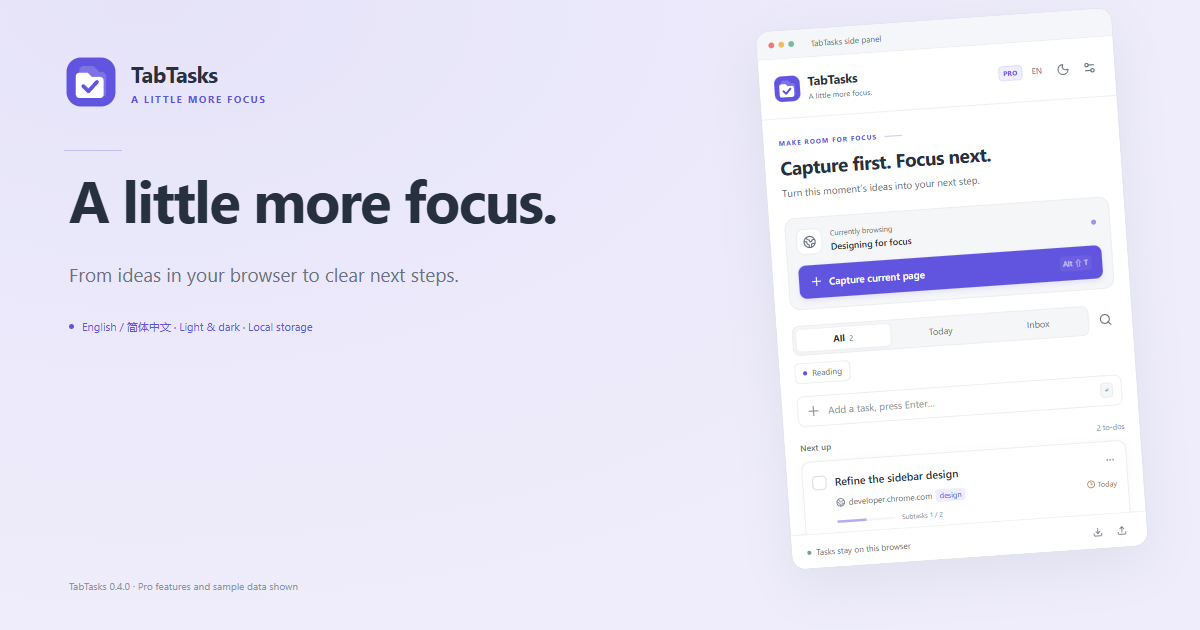
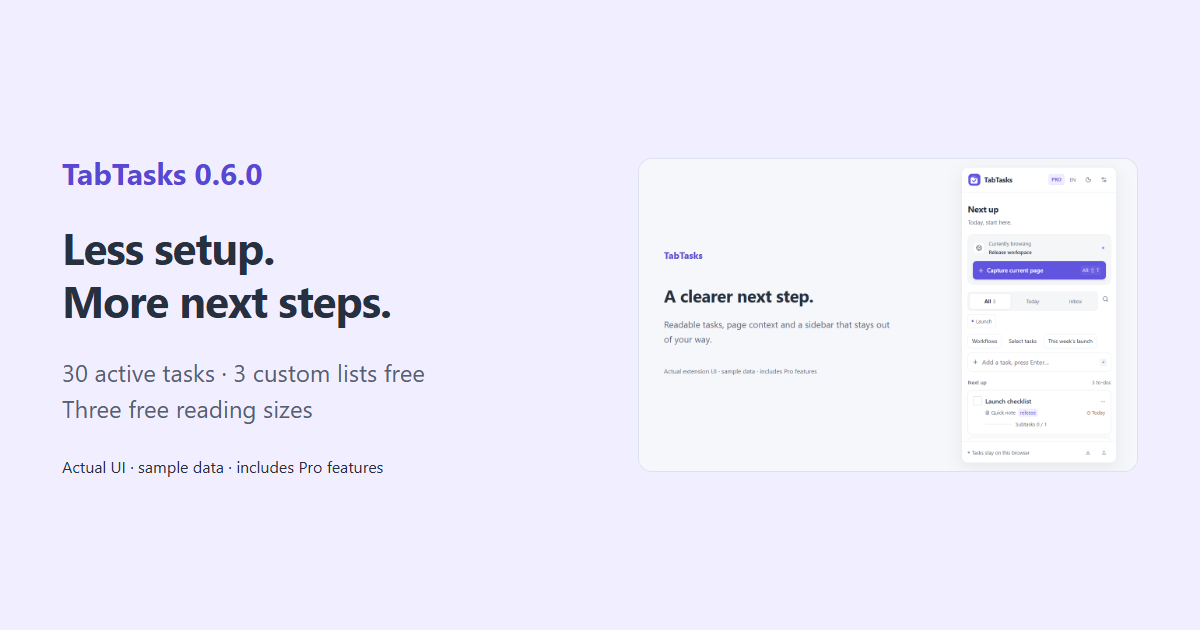
docs: align deployed product website with reading and workflow release

diff --git a/docs/index.html b/docs/index.html
@@ -1,6 +1,5 @@
 <!doctype html>
-<html lang="en"><head>
-<!-- Google tag (gtag.js) -->
+<html lang="en"><head><meta charset="utf-8"><meta name="viewport" content="width=device-width,initial-scale=1"><!-- Google tag (gtag.js) -->
 <script async src="https://www.googletagmanager.com/gtag/js?id=G-V2E93XDB2S"></script>
 <script>
   window.dataLayer = window.dataLayer || [];
@@ -8,11 +7,11 @@
   gtag('js', new Date());
   gtag('config', 'G-V2E93XDB2S', {allow_ad_personalization_signals: false});
 </script>
-<meta charset="utf-8"><meta name="viewport" content="width=device-width, initial-scale=1"><title>TabTasks — A little more focus.</title><meta name="description" content="From ideas in your browser to clear next steps. Capture a page, add context, and keep your next task close."><meta name="release-version" content="0.6.0"><link rel="icon" href="assets/icon-128.png"><link rel="canonical" href="https://tabtasks.tabplugins.top/"><meta property="og:type" content="website"><meta property="og:title" content="TabTasks — A little more focus."><meta property="og:description" content="From ideas in your browser to clear next steps. Capture a page, add context, and keep your next task close."><meta property="og:image" content="https://tabtasks.tabplugins.top/assets/social-1200x630.png"><meta property="og:image:width" content="1200"><meta property="og:image:height" content="630"><meta name="twitter:card" content="summary_large_image"><meta name="twitter:image" content="https://tabtasks.tabplugins.top/assets/social-1200x630.png"><link rel="stylesheet" href="landing.css"><script src="landing.js" defer></script></head>
-<body style="--accent:#6154df;--soft:#efedfb"><div class="page"><header><a class="brand" href="./"><img src="assets/logo.svg" width="42" height="42" alt=""><strong>TabTasks</strong></a><nav aria-label="Main"><a data-i18n="support" href="SUPPORT.html">Support</a><button id="language" type="button" aria-label="Switch to 简体中文">EN / 中</button></nav></header>
-<main><section class="hero"><div class="hero-copy"><span class="eyebrow" data-i18n="welcome">MADE FOR YOUR SIDEBAR</span><h1 data-i18n="headline">Less setup. More next steps.</h1><p class="lead" data-i18n="lead">From ideas in your browser to clear next steps. Capture a page, add context, and keep your next task close.</p><div class="actions"><a class="button primary" href="https://chromewebstore.google.com/detail/oloegbmgmcklmfgcmjngkjdfciblkmkp" data-i18n="install">Add to Chrome</a><a class="button secondary" href="https://pay-tabtasks.tabplugins.top/buy" data-i18n="buy">Get Pro</a></div><p class="quiet" data-i18n="footer">Chrome 116+ · Local storage · No account required</p></div><figure class="hero-image"><img data-shot="01" src="assets/en/shot-01.png" alt="TabTasks side panel with sample data" width="1280" height="800"><figcaption data-i18n="galleryNote">Actual interface with sample data and Pro features.</figcaption></figure></section>
-<section class="features"><h2 data-i18n="detail">Everything in its place.</h2><div class="feature-grid"><article><span class="number">01</span><h3 data-i18n="feature0">Capture the moment</h3><p data-i18n="body0">Save a webpage or selected text as a task, without leaving your browser.</p></article><article><span class="number">02</span><h3 data-i18n="feature1">Reuse your next steps</h3><p data-i18n="body1">Start with one reusable template and one saved smart view for free. Pro adds more flows, variables and views.</p></article><article><span class="number">03</span><h3 data-i18n="feature2">Review every suggestion</h3><p data-i18n="body2">Connect an OpenAI or Anthropic compatible service. Single-task AI is free; Pro adds multi-task planning. Review selected changes before applying. API calls are billed by your provider.</p></article></div></section>
-<section class="gallery"><div class="section-head"><h2 data-i18n="gallery">A calmer workspace.</h2><div class="quiet"><p data-i18n="language">Follows your browser. English fallback, with a manual language choice.</p><p data-i18n="theme">Light, dark, or follow your system.</p></div></div><div class="gallery-grid"><a class="shot-link" href="assets/en/shot-02.png" target="_blank" rel="noopener"><img data-shot="02" src="assets/en/shot-02.png" alt="TabTasks feature 2" width="1280" height="800" loading="lazy"></a><a class="shot-link" href="assets/en/shot-03.png" target="_blank" rel="noopener"><img data-shot="03" src="assets/en/shot-03.png" alt="TabTasks feature 3" width="1280" height="800" loading="lazy"></a><a class="shot-link" href="assets/en/shot-04.png" target="_blank" rel="noopener"><img data-shot="04" src="assets/en/shot-04.png" alt="TabTasks feature 4" width="1280" height="800" loading="lazy"></a><a class="shot-link" href="assets/en/shot-05.png" target="_blank" rel="noopener"><img data-shot="05" src="assets/en/shot-05.png" alt="TabTasks feature 5" width="1280" height="800" loading="lazy"></a></div></section>
-<section class="plans"><article><span class="eyebrow" data-i18n="free">Free</span><h2 data-i18n="free">Free</h2><ul id="free-features"><li>30 active tasks · 3 custom lists</li><li>Page capture, tags, notes, subtasks and dates</li><li>JSON backup and calendar export</li><li>1 reusable template · 1 saved smart view</li><li>Single-task AI with your API key</li></ul><a class="button secondary" href="https://chromewebstore.google.com/detail/oloegbmgmcklmfgcmjngkjdfciblkmkp" data-i18n="install">Add to Chrome</a></article><article class="pro-plan"><span class="eyebrow" data-i18n="once">One-time $6 license</span><h2 data-i18n="pro">Pro</h2><ul id="pro-features"><li>More active tasks and custom lists</li><li>Multiple flow templates and variables</li><li>Cross-list flows and batch starts</li><li>Saved smart views, grouping and pins</li><li>Multi-task AI plans and reusable instructions</li></ul><a class="button primary" href="https://pay-tabtasks.tabplugins.top/buy" data-i18n="buy">Get Pro</a></article></section>
-<section class="privacy"><span class="eyebrow">LOCAL FIRST</span><h2 data-i18n="privacyTitle">Your workspace stays local.</h2><p data-i18n="privacy">Tasks and preferences stay local. An explicit AI request sends your instruction and disclosed task snapshot directly to your selected service. No extension usage analytics.</p><a href="PRIVACY.html" data-i18n="policy">Privacy policy</a></section></main>
-<footer><span>TabTasks 0.5.1</span><div><a href="PRIVACY.html" data-i18n="policy">Privacy policy</a><a href="SUPPORT.html" data-i18n="support">Support</a><a href="https://tabvault.tabplugins.top/" data-i18n="related">Explore TabVault</a></div></footer></div></body></html>
+<title>TabTasks — Less setup. More next steps.</title><meta name="description" content="Capture a page, reuse a checklist, and keep the right tasks in view. Readable by default, with your next step close at hand."><meta name="release-version" content="0.6.0"><link rel="canonical" href="https://tabtasks.tabplugins.top/"><link rel="icon" href="assets/icon-128.png"><meta property="og:type" content="website"><meta property="og:title" content="TabTasks 0.6.0"><meta property="og:description" content="Capture a page, reuse a checklist, and keep the right tasks in view. Readable by default, with your next step close at hand."><meta property="og:image" content="https://tabtasks.tabplugins.top/assets/social-1200x630.png"><meta property="og:image:width" content="1200"><meta property="og:image:height" content="630"><meta name="twitter:card" content="summary_large_image"><meta name="twitter:image" content="https://tabtasks.tabplugins.top/assets/social-1200x630.png"><link rel="stylesheet" href="landing.css"><script src="landing.js" defer></script></head>
+<body style="--accent:#5847d2;--soft:#efedfb"><div class="page"><header><a class="brand" href="./"><img src="assets/logo.svg" width="42" height="42" alt=""><strong>TabTasks</strong></a><nav aria-label="Main"><a href="SUPPORT.html" data-i18n="support">Support</a><button id="language" type="button" aria-label="Switch to 简体中文">EN / 中</button></nav></header>
+<main><p class="release-note" data-i18n="releaseNote">This page presents TabTasks 0.6.0. Store review and update distribution may take longer; check your installed version.</p><section class="hero"><div class="hero-copy"><span class="eyebrow" data-i18n="welcome">MADE FOR YOUR SIDEBAR</span><h1 data-i18n="headline">Less setup. More next steps.</h1><p class="lead" data-i18n="lead">Capture a page, reuse a checklist, and keep the right tasks in view. Readable by default, with your next step close at hand.</p><div class="actions"><a class="button primary" href="https://chromewebstore.google.com/detail/oloegbmgmcklmfgcmjngkjdfciblkmkp" data-i18n="install">View in Chrome Web Store</a><a class="button secondary" href="https://pay-tabtasks.tabplugins.top/buy" data-i18n="buy">Get Pro</a></div><p class="quiet" data-i18n="footer">Chrome 116+ · Local storage · No account required</p></div><figure class="hero-image"><img data-shot="01" src="assets/en/shot-01.png" alt="TabTasks 0.6.0 side panel" width="1280" height="800"><figcaption data-i18n="galleryNote">Actual interface with sample data and Pro features.</figcaption></figure></section>
+<section class="features"><h2 data-i18n="detail">Everything in its place.</h2><div class="feature-grid"><article><span class="number">01</span><h3 data-i18n="feature0">Capture the moment</h3><p data-i18n="body0">Save a webpage or selected text with notes, tags, subtasks, due dates and supported page excerpts. All of these basics are free.</p></article><article><span class="number">02</span><h3 data-i18n="feature1">Reuse your next steps</h3><p data-i18n="body1">Reuse one dated flow template and save one smart view for free. Pro adds multiple templates, project-name variables, cross-list batches, grouping and pins.</p></article><article><span class="number">03</span><h3 data-i18n="feature2">Review every suggestion</h3><p data-i18n="body2">Bring an OpenAI Chat Completions or Anthropic Messages compatible API key. Single-task AI is free; Pro adds multi-task plans and reusable instructions. Preview and confirm changes.</p></article><article><span class="number">04</span><h3 data-i18n="feature3">Comfortable to read</h3><p data-i18n="body3">Compact, standard or large text is free. Follow your browser language with English fallback, or switch between English and Simplified Chinese.</p></article></div></section>
+<section class="gallery"><div class="section-head"><h2 data-i18n="gallery">A calmer workspace.</h2><div class="quiet"><p data-i18n="language">Follows your browser. English fallback, with a manual language choice.</p><p data-i18n="theme">Light, dark, or follow your system.</p></div></div><div class="gallery-grid"><figure class="gallery-item"><a class="shot-link" href="assets/en/shot-02.png" target="_blank" rel="noopener"><img data-shot="02" src="assets/en/shot-02.png" alt="Reusable flows · one template is free" width="1280" height="800" loading="lazy"></a><figcaption data-i18n="shot02">Reusable flows · one template is free</figcaption></figure><figure class="gallery-item"><a class="shot-link" href="assets/en/shot-03.png" target="_blank" rel="noopener"><img data-shot="03" src="assets/en/shot-03.png" alt="Smart views · Pro grouping and pins" width="1280" height="800" loading="lazy"></a><figcaption data-i18n="shot03">Smart views · Pro grouping and pins</figcaption></figure><figure class="gallery-item"><a class="shot-link" href="assets/en/shot-04.png" target="_blank" rel="noopener"><img data-shot="04" src="assets/en/shot-04.png" alt="AI previews · Pro multi-task planning" width="1280" height="800" loading="lazy"></a><figcaption data-i18n="shot04">AI previews · Pro multi-task planning</figcaption></figure><figure class="gallery-item"><a class="shot-link" href="assets/en/shot-05.png" target="_blank" rel="noopener"><img data-shot="05" src="assets/en/shot-05.png" alt="Three reading sizes · free for everyone" width="1280" height="800" loading="lazy"></a><figcaption data-i18n="shot05">Three reading sizes · free for everyone</figcaption></figure></div></section>
+<section class="plans"><article class="free-plan"><span class="eyebrow" data-i18n="free">Free</span><h2 data-i18n="free">Free</h2><ul id="free-features"><li>30 active tasks · 3 custom lists</li><li>Notes, tags, excerpts, subtasks and dates</li><li>JSON backup and calendar export</li><li>1 reusable flow template · 1 smart view</li><li>Single-task AI with your API key</li><li>Three text sizes, themes and last-change undo</li></ul><a class="button primary" href="https://chromewebstore.google.com/detail/oloegbmgmcklmfgcmjngkjdfciblkmkp" data-i18n="install">View in Chrome Web Store</a></article><article class="pro-plan"><span class="eyebrow" data-i18n="once">One-time $6 license</span><h2 data-i18n="pro">Pro</h2><p class="price" data-i18n="price">$6 · one-time purchase</p><ul id="pro-features"><li>No active-task or custom-list count limits</li><li>Multiple templates and project-name variables</li><li>Cross-list flows and batch starts</li><li>More smart views, grouping and pins</li><li>Multi-task AI planning and saved instructions</li></ul><a class="button secondary" href="https://pay-tabtasks.tabplugins.top/buy" data-i18n="buy">Get Pro</a></article></section><div class="plan-notes"><p data-i18n="limitNote">Completed tasks and built-in lists do not use the 30 / 3 allowance. Pro removes these product count limits; local storage and browser resources still apply.</p><p data-i18n="priceNote">Applicable tax is shown at checkout. Each product is purchased separately. Existing Pro licenses include this update.</p><p data-i18n="purchaseNote">Start in the extension for automatic activation after payment verification. Email recovery and existing license codes remain available.</p></div>
+<section class="faq"><h2 data-i18n="faqTitle">Before you start</h2><details><summary data-i18n="faqQ0">Is my content synced to a cloud?</summary><p data-i18n="faqA0">No. Content and reusable workflows stay in this browser. JSON backups are available on Free; export before changing devices or uninstalling. Credentials and Pro licenses are excluded. The extension has no usage analytics; website traffic analytics is separate.</p></details><details><summary data-i18n="faqQ1">Which AI services can I use, and who pays?</summary><p data-i18n="faqA1">Choose an OpenAI Chat Completions or Anthropic Messages compatible service, API address and model. Compatibility depends on the provider implementation. Use your own API key; API usage is billed by that provider and is not included in Pro. A consumer chat subscription does not necessarily include API access.</p></details><details><summary data-i18n="faqQ2">How does a Pro purchase work?</summary><p data-i18n="faqA2">Each product has an optional $6 one-time Pro purchase, with applicable tax shown at checkout. Purchases started in the extension support verified automatic activation. For another device, use purchase-email recovery or an existing license code.</p></details></section><section class="privacy"><span class="eyebrow">LOCAL FIRST</span><h2 data-i18n="privacyTitle">Your workspace stays local.</h2><p data-i18n="privacy">Tasks, templates and views stay local. AI sends only your instruction and selected task IDs, titles, dates, completion states and tags to your chosen service; URLs, notes and page excerpts are excluded. No extension usage analytics.</p><a href="PRIVACY.html" data-i18n="policy">Privacy policy</a></section></main>
+<footer><span data-i18n="versionLabel">Features shown: TabTasks 0.6.0</span><div><a href="PRIVACY.html" data-i18n="policy">Privacy policy</a><a href="SUPPORT.html" data-i18n="support">Support</a><a href="https://tabvault.tabplugins.top/" data-i18n="related">Explore TabVault</a></div></footer></div></body></html>

diff --git a/docs/landing.js b/docs/landing.js
@@ -1,1 +1,3 @@
-const words={"headline":["Less setup. More next steps.","少做重复整理，清楚走出下一步。"],"lead":["From ideas in your browser to clear next steps. Capture a page, add context, and keep your next task close.","从浏览器里的想法，到清楚的下一步。收集网页、补充背景，让下一件事留在手边。"],"install":["Add to Chrome","添加到 Chrome"],"buy":["Get Pro","购买 Pro"],"welcome":["MADE FOR YOUR SIDEBAR","为浏览器侧栏而设计"],"detail":["Everything in its place.","让每件事各有位置。"],"gallery":["A calmer workspace.","更安静的工作空间。"],"galleryNote":["Actual interface with sample data and Pro features.","实际界面，含示例数据与 Pro 功能。"],"free":["Free","免费版"],"pro":["Pro","Pro 专业版"],"once":["One-time $6 license","一次性 $6 买断"],"language":["Follows your browser. English fallback, with a manual language choice.","默认跟随浏览器语言，识别失败使用英文，也可手动选择。"],"theme":["Light, dark, or follow your system.","浅色、深色或跟随系统。"],"privacyTitle":["Your workspace stays local.","工作空间保存在本机。"],"privacy":["Tasks and preferences stay local. An explicit AI request sends your instruction and disclosed task snapshot directly to your selected service. No extension usage analytics.","任务与偏好保存在本机；主动使用 AI 时，指令及已披露任务快照直连所选服务。插件内不收集使用统计。"],"policy":["Privacy policy","隐私政策"],"support":["Support","支持"],"related":["Explore TabVault","看看 TabVault"],"footer":["Chrome 116+ · Local storage · No account required","Chrome 116+ · 本地存储 · 无需账号"],"feature0":["Capture the moment","收集当下"],"body0":["Save a webpage or selected text as a task, without leaving your browser.","把网页或选中的文字收成待办，继续眼前的浏览。"],"feature1":["Reuse your next steps","复用工作流程"],"body1":["Start with one reusable template and one saved smart view for free. Pro adds more flows, variables and views.","免费体验一个可复用模板和一个智能视图；Pro 提供更多流程、变量与视图。"],"feature2":["Review every suggestion","核对每个建议"],"body2":["Connect an OpenAI or Anthropic compatible service. Single-task AI is free; Pro adds multi-task planning. Review selected changes before applying. API calls are billed by your provider.","连接 OpenAI / Anthropic 兼容服务。单任务 AI 免费，Pro 提供多任务计划。逐项预览并确认应用，调用费用由服务商另行收取。"]},plans={"free":["30 active tasks · 3 custom lists|Page capture, tags, notes, subtasks and dates|JSON backup and calendar export|1 reusable template · 1 saved smart view|Single-task AI with your API key","30 个活动任务 · 3 个自定义列表|网页收集、标签、备注、子任务与日期|JSON 备份与日历导出|1 个流程模板 · 1 个智能视图|自带 API Key 的单任务 AI"],"pro":["More active tasks and custom lists|Multiple flow templates and variables|Cross-list flows and batch starts|Saved smart views, grouping and pins|Multi-task AI plans and reusable instructions","更多活动任务与自定义列表|多流程模板与变量|跨列表流程与批量启动|保存智能视图、分组与固定入口|多任务 AI 计划与常用指令"]};let lang=/^zh(?:-|$)/i.test(navigator.language||'')?'zh':'en';try{const saved=localStorage.getItem('tabtasks_site_language');if(['en','zh'].includes(saved))lang=saved}catch{}function render(){const index=lang==='zh'?1:0;document.documentElement.lang=lang==='zh'?'zh-CN':'en';for(const node of document.querySelectorAll('[data-i18n]'))node.textContent=words[node.dataset.i18n][index];for(const node of document.querySelectorAll('[data-shot]')){node.src='assets/'+lang+'/shot-'+node.dataset.shot+'.png';if(node.parentElement.classList.contains('shot-link'))node.parentElement.href=node.src}for(const key of ['free','pro']){const ul=document.getElementById(key+'-features');ul.replaceChildren(...plans[key][index].split('|').map(text=>{const li=document.createElement('li');li.textContent=text;return li}))}document.getElementById('language').setAttribute('aria-label',lang==='en'?'Switch to 简体中文':'Switch to English')}document.getElementById('language').addEventListener('click',()=>{lang=lang==='en'?'zh':'en';try{localStorage.setItem('tabtasks_site_language',lang)}catch{}render()});render();
+const words={"headline":["Less setup. More next steps.","少做重复整理，清楚走出下一步。"],"lead":["Capture a page, reuse a checklist, and keep the right tasks in view. Readable by default, with your next step close at hand.","收集网页、复用清单，让需要的任务自然汇集。默认清楚易读，让下一步留在手边。"],"install":["View in Chrome Web Store","前往 Chrome 商店"],"buy":["Get Pro","购买 Pro"],"welcome":["MADE FOR YOUR SIDEBAR","为浏览器侧栏而设计"],"detail":["Everything in its place.","让每件事各有位置。"],"gallery":["A calmer workspace.","更安静的工作空间。"],"galleryNote":["Actual interface with sample data and Pro features.","实际界面，含示例数据与 Pro 功能。"],"free":["Free","免费版"],"pro":["Pro","Pro 专业版"],"once":["One-time $6 license","一次性 $6 买断"],"language":["Follows your browser. English fallback, with a manual language choice.","默认跟随浏览器语言，识别失败使用英文，也可手动选择。"],"theme":["Light, dark, or follow your system.","浅色、深色或跟随系统。"],"privacyTitle":["Your workspace stays local.","工作空间保存在本机。"],"privacy":["Tasks, templates and views stay local. AI sends only your instruction and selected task IDs, titles, dates, completion states and tags to your chosen service; URLs, notes and page excerpts are excluded. No extension usage analytics.","任务、模板和视图保存在本机。AI 只将指令及所选任务的 ID、标题、日期、完成状态、标签发送至所选服务，不发送网址、备注或网页摘录。插件内不收集使用统计。"],"policy":["Privacy policy","隐私政策"],"support":["Support","支持"],"related":["Explore TabVault","看看 TabVault"],"footer":["Chrome 116+ · Local storage · No account required","Chrome 116+ · 本地存储 · 无需账号"],"feature0":["Capture the moment","收集当下"],"body0":["Save a webpage or selected text with notes, tags, subtasks, due dates and supported page excerpts. All of these basics are free.","把网页或选区收成任务，补充备注、标签、子任务、到期日及支持页面的短摘录，这些基础功能均免费。"],"feature1":["Reuse your next steps","复用工作流程"],"body1":["Reuse one dated flow template and save one smart view for free. Pro adds multiple templates, project-name variables, cross-list batches, grouping and pins.","免费反复使用一个带相对日期的流程模板，并保存一个智能视图；Pro 增加多模板、项目名称变量、跨列表批量启动、分组与置顶。"],"feature2":["Review every suggestion","核对每个建议"],"body2":["Bring an OpenAI Chat Completions or Anthropic Messages compatible API key. Single-task AI is free; Pro adds multi-task plans and reusable instructions. Preview and confirm changes.","自带 OpenAI Chat Completions 或 Anthropic Messages 兼容服务的 API Key。单任务 AI 免费，Pro 提供多任务计划和常用指令，修改先预览再确认。"],"releaseNote":["This page presents TabTasks 0.6.0. Store review and update distribution may take longer; check your installed version.","本页介绍 TabTasks 0.6.0。商店审核与更新分发可能存在时间差，请以实际安装版本为准。"],"versionLabel":["Features shown: TabTasks 0.6.0","本页功能版本：TabTasks 0.6.0"],"feature3":["Comfortable to read","用舒服的字号继续"],"body3":["Compact, standard or large text is free. Follow your browser language with English fallback, or switch between English and Simplified Chinese.","紧凑、标准、大字均免费。默认跟随浏览器语言，识别失败或未支持时使用英文，也可手动切换中英文。"],"price":["$6 · one-time purchase","$6 · 一次性买断"],"priceNote":["Applicable tax is shown at checkout. Each product is purchased separately. Existing Pro licenses include this update.","适用税费以结账页为准，两款产品分别购买。已有 Pro 授权包含本次更新。"],"purchaseNote":["Start in the extension for automatic activation after payment verification. Email recovery and existing license codes remain available.","从插件内发起购买，经服务核验付款后自动激活；也支持邮箱恢复和已有授权码。"],"faqTitle":["Before you start","开始前，了解这几件事"],"faqQ0":["Is my content synced to a cloud?","内容会同步到云端吗？"],"faqA0":["No. Content and reusable workflows stay in this browser. JSON backups are available on Free; export before changing devices or uninstalling. Credentials and Pro licenses are excluded. The extension has no usage analytics; website traffic analytics is separate.","不会。内容与可复用流程保存在本机浏览器。JSON 备份免费，换设备或卸载前请先导出；备份不含凭证和 Pro 授权。插件内不收集使用统计，官网访问统计另行披露。"],"faqQ2":["How does a Pro purchase work?","Pro 怎样购买和恢复？"],"faqA2":["Each product has an optional $6 one-time Pro purchase, with applicable tax shown at checkout. Purchases started in the extension support verified automatic activation. For another device, use purchase-email recovery or an existing license code.","每款 Pro 均为可选的 $6 一次性买断，税费以结账页为准。从插件发起购买后支持核验并自动激活；换设备可用购买邮箱恢复或已有授权码。"],"limitNote":["Completed tasks and built-in lists do not use the 30 / 3 allowance. Pro removes these product count limits; local storage and browser resources still apply.","已完成任务和内置列表不占 30／3 额度。Pro 解除这两项产品数量限制，实际使用仍受本机存储和浏览器资源约束。"],"faqQ1":["Which AI services can I use, and who pays?","可以连接哪些 AI，费用怎么算？"],"faqA1":["Choose an OpenAI Chat Completions or Anthropic Messages compatible service, API address and model. Compatibility depends on the provider implementation. Use your own API key; API usage is billed by that provider and is not included in Pro. A consumer chat subscription does not necessarily include API access.","可选择 OpenAI Chat Completions 或 Anthropic Messages 兼容服务，自定义地址、模型及 API Key。兼容性取决于服务商实现。调用费用由服务商另收，Pro 不包含 AI 额度；聊天产品订阅不等于 API 权限。"],"shot02":["Reusable flows · one template is free","可复用流程 · 免费提供一个模板"],"shot03":["Smart views · Pro grouping and pins","智能视图 · Pro 分组与置顶"],"shot04":["AI previews · Pro multi-task planning","AI 建议预览 · Pro 多任务计划"],"shot05":["Three reading sizes · free for everyone","三档阅读字号 · 所有用户免费"]},plans={"free":["30 active tasks · 3 custom lists|Notes, tags, excerpts, subtasks and dates|JSON backup and calendar export|1 reusable flow template · 1 smart view|Single-task AI with your API key|Three text sizes, themes and last-change undo","30 个活动任务 · 3 个自定义列表|备注、标签、短摘录、子任务与日期|JSON 备份与日历导出|1 个可复用流程模板 · 1 个智能视图|自带 Key 的单任务 AI|三档字号、主题与最近一次数据修改撤销"],"pro":["No active-task or custom-list count limits|Multiple templates and project-name variables|Cross-list flows and batch starts|More smart views, grouping and pins|Multi-task AI planning and saved instructions","解除活动任务与自定义列表数量限制|多个流程模板与项目名称变量|跨列表流程与批量启动|更多智能视图、分组与置顶|多任务 AI 计划与常用指令"]};let lang='en';try{lang=/^zh(?:-|$)/i.test(navigator.language||'')?'zh':'en'}catch{}try{const saved=localStorage.getItem('tabtasks_site_language');if(['en','zh'].includes(saved))lang=saved}catch{}
+function render(){const index=lang==='zh'?1:0;document.documentElement.lang=lang==='zh'?'zh-CN':'en';for(const node of document.querySelectorAll('[data-i18n]'))node.textContent=words[node.dataset.i18n][index];for(const node of document.querySelectorAll('[data-shot]')){node.src='assets/'+lang+'/shot-'+node.dataset.shot+'.png';node.alt=node.dataset.shot==='01'?'TabTasks 0.6.0 · '+words.galleryNote[index]:words['shot'+node.dataset.shot][index];if(node.parentElement.classList.contains('shot-link'))node.parentElement.href=node.src}for(const key of ['free','pro']){document.getElementById(key+'-features').replaceChildren(...plans[key][index].split('|').map(text=>{const li=document.createElement('li');li.textContent=text;return li}))}document.getElementById('language').setAttribute('aria-label',lang==='en'?'Switch to 简体中文':'Switch to English')}
+document.getElementById('language').addEventListener('click',()=>{lang=lang==='en'?'zh':'en';try{localStorage.setItem('tabtasks_site_language',lang)}catch{}render()});render();

diff --git a/docs/SUPPORT.html b/docs/SUPPORT.html
@@ -1,11 +1,11 @@
-<!doctype html><html lang="en"><head><meta charset="utf-8"><meta name="viewport" content="width=device-width,initial-scale=1"><title>TabTasks — Support 支持中心</title><style>body{font:15px/1.8 system-ui,"Segoe UI","Microsoft YaHei",sans-serif;max-width:760px;margin:40px auto;padding:0 22px;color:#26303e}h1{font-size:28px}h2{font-size:21px;margin-top:36px}h3{font-size:16px;margin:24px 0 6px}a{color:#6154df}.date,footer{color:#738094;font-size:13px}footer{margin-top:40px;border-top:1px solid #e1e7ef;padding-top:16px}</style></head><body><h1>TabTasks — Support 支持中心</h1><p class="date">Updated / 生效日期：2026-10-09</p><h2>English</h2><h3>Open and update</h3><p>Click the toolbar icon. Chrome 116+ is required. Update the existing extension without uninstalling, which deletes local content. Alt+Shift+T collects the active page.</p>
+<!doctype html><html lang="en"><head><meta charset="utf-8"><meta name="viewport" content="width=device-width,initial-scale=1"><title>TabTasks — Support 支持中心</title><style>body{font:16px/1.8 system-ui,"Segoe UI","Microsoft YaHei",sans-serif;max-width:760px;margin:40px auto;padding:0 22px;color:#26303e}h1{font-size:28px}h2{font-size:21px;margin-top:36px}h3{font-size:16px;margin:24px 0 6px}a{color:#6154df}.date,footer{color:#738094;font-size:13px}footer{margin-top:40px;border-top:1px solid #e1e7ef;padding-top:16px}</style></head><body><h1>TabTasks — Support 支持中心</h1><p class="date">Updated / 生效日期：2026-10-17</p><h2>English</h2><h3>Reading and language</h3><p>This page describes TabTasks 0.6.0. Choose Compact, Standard or Large in Settings for free. The default follows browser language, with English fallback; EN / 中 switches manually. Check your installed version because store review and distribution can lag behind this page.</p><h3>Open and update</h3><p>Click the toolbar icon. Chrome 116+ is required. Update the existing extension without uninstalling, which deletes local content. Alt+Shift+T collects the active page.</p>
 <h3>Activate or restore Pro</h3><p>Use Settings → Explore Pro to buy. Purchases started inside the extension activate automatically after verified payment. If you closed checkout, open the panel and check payment status; avoid paying again. In purchase management, Restore purchase verifies the checkout email. If email recovery is not configured, use Have a license code? with your saved code or contact support privately. Website purchases and older extension versions can use the fallback code.</p>
-<h3>Local backups</h3><p>JSON task backups require Pro. API keys are excluded. Use Export before uninstalling or moving devices.</p>
-<h3>Connect an AI service</h3><p>Settings offers OpenAI, Anthropic, DeepSeek and Custom. Choose the API format, service address, model and your service’s API key; Test connection is available on Free. Model/API access is separate from a consumer chat subscription. Pro AI usage is charged by your service. If a model/endpoint is missing, check the provider’s exact address and model ID. HTTP is allowed only for local loopback models.</p>
+<h3>Local backups</h3><p>JSON backups are free and include tasks and local workflows. AI API configuration and licenses are excluded. Use Export before uninstalling or moving devices.</p>
+<h3>Connect an AI service</h3><p>Settings offers OpenAI, Anthropic, DeepSeek and Custom. Choose the API format, service address, model and your service’s API key; Test connection is available on Free. Model/API access is separate from a consumer chat subscription. Single-task AI is free; Pro adds multi-task planning and saved instructions. Provider API usage is charged separately on either plan. If a model/endpoint is missing, check the provider’s exact address and model ID. HTTP is allowed only for local loopback models.</p>
 <h3>Refunds</h3><p>Request a full refund within 14 days of purchase using your Stripe receipt, by emailing <a href="mailto:support@tabplugins.top?subject=TabTasks%20support">support@tabplugins.top</a>. Older purchases are handled case by case. Refunds prevent new server license retrieval; already activated offline licenses are not automatically revoked.</p>
-<h3>Contact</h3><p>For bugs, purchase help, refunds or privacy requests, email <a href="mailto:support@tabplugins.top?subject=TabTasks%20support">support@tabplugins.top</a>. Include the product name, extension version and a description. For an order request, include your Stripe receipt or checkout reference privately. Never send API keys or license codes. Replies within 2 business days.</p><h2>中文</h2><h3>打开与更新</h3><p>点击工具栏图标，需要 Chrome 116+。直接更新原扩展；卸载会删除本地内容。Alt+Shift+T 收集当前网页。</p>
+<h3>Contact</h3><p>For bugs, purchase help, refunds or privacy requests, email <a href="mailto:support@tabplugins.top?subject=TabTasks%20support">support@tabplugins.top</a>. Include the product name, extension version and a description. For an order request, include your Stripe receipt or checkout reference privately. Never send API keys or license codes. Replies within 2 business days.</p><h2>中文</h2><h3>字号与语言</h3><p>本页介绍 TabTasks 0.6.0。在设置中免费选择紧凑、标准或大字。默认跟随浏览器语言，未支持或识别失败时用英文，EN／中可手动切换。商店审核与分发可能滞后，请核对实际安装版本。</p><h3>打开与更新</h3><p>点击工具栏图标，需要 Chrome 116+。直接更新原扩展；卸载会删除本地内容。Alt+Shift+T 收集当前网页。</p>
 <h3>激活与恢复购买</h3><p>在设置 → 了解 Pro 中购买，确认付款后会自动激活。关闭付款页后也可返回插件检查付款状态，请勿重复付款。“管理购买”中的“恢复购买”通过结账邮箱验证码核实。若邮件服务暂未配置，可在“已有授权码？”输入保存的授权码，或私下联系支持。从网站购买及旧版插件可使用备用授权码。</p>
-<h3>本地备份</h3><p>任务 JSON 备份需 Pro，API Key 不进入备份。卸载或换设备前请先导出。</p>
-<h3>连接 AI</h3><p>设置支持 OpenAI、Anthropic、DeepSeek 和自定义服务。填写接口协议、服务地址、模型与该服务的 API Key；免费版可测试连接。聊天产品订阅不等于 API 使用权限，Pro 不包含服务商调用费用。若找不到模型或接口，请核对服务商文档中的地址及模型 ID。HTTP 仅允许本机回环模型。</p>
+<h3>本地备份</h3><p>JSON 备份免费，包含任务及本地流程，不包含 AI API 配置或授权。卸载或换设备前请先导出。</p>
+<h3>连接 AI</h3><p>设置支持 OpenAI、Anthropic、DeepSeek 和自定义服务。填写接口协议、服务地址、模型与该服务的 API Key；免费版可测试连接并使用单任务 AI，Pro 提供多任务计划和常用指令。聊天产品订阅不等于 API 使用权限，Pro 不包含服务商调用费用。若找不到模型或接口，请核对服务商文档中的地址及模型 ID。HTTP 仅允许本机回环模型。</p>
 <h3>退款</h3><p>购买后 14 天内可凭 Stripe 收据发送邮件至 <a href="mailto:support@tabplugins.top?subject=TabTasks%20support">support@tabplugins.top</a> 申请全额退款；超过 14 天逐单处理。退款阻止服务器重新签发，已激活的离线授权不会自动撤销。</p>
 <h3>联系</h3><p>问题反馈、购买帮助、退款或隐私申请，请发送邮件至 <a href="mailto:support@tabplugins.top?subject=TabTasks%20support">support@tabplugins.top</a>。请注明产品名称、插件版本和问题描述；订单问题可在邮件中附 Stripe 收据或付款编号。请勿发送 API Key 或授权码。两个工作日内回复。</p><footer><a href="./">TabTasks</a> · <a href="PRIVACY.html">Privacy</a> · <a href="SUPPORT.html">Support</a></footer></body></html>

diff --git a/docs/landing.css b/docs/landing.css
@@ -1,1 +1,3 @@
 *{box-sizing:border-box}html{scroll-behavior:smooth}body{margin:0;background:#fafbfd;color:#26303e;font-family:Inter,"Segoe UI","Microsoft YaHei",sans-serif;line-height:1.65}a{color:inherit;text-decoration:none}button,a{ -webkit-tap-highlight-color:transparent}a:focus-visible,button:focus-visible{outline:3px solid var(--accent);outline-offset:4px}button{font:inherit;cursor:pointer}.page{max-width:1250px;margin:auto;padding:0 44px}header{height:106px;display:flex;align-items:center;justify-content:space-between;border-bottom:1px solid #e5e9ef}.brand{display:flex;gap:12px;align-items:center}.brand strong{font-size:21px;letter-spacing:-.6px}nav{display:flex;gap:24px;align-items:center;font-size:13px}nav button{border:1px solid #dbe1e9;border-radius:10px;background:white;padding:7px 12px;color:#647184}.hero{display:grid;grid-template-columns:.9fr 1.1fr;gap:45px;align-items:center;padding:82px 0 75px}.eyebrow{font-size:10px;letter-spacing:2px;color:var(--accent);font-weight:650}.hero h1{font-size:clamp(38px,4.5vw,60px);line-height:1.12;letter-spacing:-2.2px;margin:21px 0}.lead{color:#657283;font-size:17px;max-width:450px;line-height:1.8}.actions{display:flex;gap:12px;flex-wrap:wrap;margin:30px 0 19px}.button{border-radius:10px;font-size:13px;padding:11px 19px;display:inline-block;transition:transform .18s,box-shadow .18s}.button:hover{transform:translateY(-2px);box-shadow:0 5px 16px #26303e10}.primary{background:var(--accent);color:white}.secondary{border:1px solid #dce2eb;background:white}.quiet{font-size:11px;color:#7c8898}.quiet p{margin:4px 0}.hero-image{margin:0;min-width:0}.hero-image img{width:100%;height:auto;border-radius:17px;box-shadow:0 15px 45px #26303e10}.hero-image figcaption{font-size:10px;color:#8793a3;margin-top:10px;text-align:right}h2{font-size:28px;letter-spacing:-.9px;margin:0 0 24px}h3{font-size:17px;margin:13px 0 7px;letter-spacing:-.3px}.features{padding:45px 0 68px;border-top:1px solid #e5e9ef}.feature-grid{display:grid;grid-template-columns:repeat(3,1fr);gap:18px}.feature-grid article{padding:26px;background:white;border:1px solid #e5e9ef;border-radius:14px}.number{font-size:10px;color:var(--accent);letter-spacing:2px}.feature-grid p{font-size:13px;color:#6b7788;margin:0}.section-head{display:flex;gap:20px;align-items:start;justify-content:space-between}.gallery-grid{display:grid;grid-template-columns:1fr 1fr;gap:20px}.gallery-grid img{width:100%;height:auto;display:block;border-radius:13px}.shot-link{display:block;border:1px solid #e5e9ef;border-radius:13px;overflow:hidden;background:var(--soft)}.plans{display:grid;grid-template-columns:1fr 1fr;gap:20px;padding:74px 0}.plans article{border:1px solid #e0e6ef;border-radius:16px;padding:34px;background:white}.plans h2{margin:10px 0 15px}.plans ul{padding-left:18px;color:#657283;font-size:13px;line-height:2.1;min-height:120px}.plans .pro-plan{background:var(--soft);border-color:transparent}.privacy{padding:40px;border-radius:16px;background:white;border:1px solid #e5e9ef;margin-bottom:65px}.privacy h2{margin:10px 0 15px}.privacy p{font-size:13px;color:#6b7788;max-width:800px}.privacy a{font-size:12px;color:var(--accent)}footer{border-top:1px solid #e5e9ef;padding:25px 0 35px;display:flex;gap:15px;justify-content:space-between;font-size:11px;color:#7c8898}footer div{display:flex;gap:21px}@media(max-width:850px){.page{padding:0 24px}.hero{grid-template-columns:1fr;padding:50px 0;gap:25px}.hero h1{font-size:49px}.hero-image{max-width:680px}.feature-grid{grid-template-columns:1fr}.plans{padding:45px 0}.plans article{padding:24px}.section-head{flex-direction:column;gap:0;margin-bottom:22px}}@media(max-width:480px){.page{padding:0 18px}header{height:83px}nav{gap:10px}nav a{max-width:70px;line-height:1.4;font-size:10px}.brand strong{font-size:19px}.brand img{width:35px;height:35px}.hero h1{font-size:39px;letter-spacing:-1.3px}.lead{font-size:15px}.gallery-grid,.plans{grid-template-columns:1fr}.plans{gap:15px}.privacy{padding:25px}.section-head h2{font-size:25px}footer{flex-direction:column}footer div{gap:16px;flex-wrap:wrap}}@media(prefers-reduced-motion:reduce){html{scroll-behavior:auto}.button{transition:none}.button:hover{transform:none}}
+/* Reading release website */
+body{font-size:16px}.button{font-size:15px;min-height:44px;display:inline-flex;align-items:center;justify-content:center}.quiet{font-size:14px;color:#596779}.eyebrow,.number{font-size:12px}.lead{font-size:18px}.hero-image figcaption,.gallery-item figcaption{font-size:13px;color:#596779;margin-top:12px}.feature-grid{grid-template-columns:repeat(2,minmax(0,1fr))}.feature-grid p,.privacy p{font-size:16px;color:#536173}.feature-grid h3{font-size:20px}.feature-grid article{min-width:0}.gallery-item{margin:0;min-width:0}.plans article{display:flex;flex-direction:column;min-width:0}.plans ul{font-size:16px;line-height:1.85;min-height:0;color:#536173}.plans .button{margin-top:auto;align-self:flex-start}.price{font-size:23px;font-weight:650;margin:0}.plans{padding-bottom:22px}.plan-notes{font-size:15px;color:#536173;margin:0 0 60px}.release-note{font-size:14px;background:var(--soft);border-radius:10px;padding:14px 18px;margin:24px 0 0;color:#465467}.hero{padding-top:50px}.privacy a,footer{font-size:14px}.faq{margin:0 0 60px}.faq details{border-top:1px solid #dce2eb;padding:20px 0}.faq summary{font-size:18px;font-weight:600;cursor:pointer}.faq p{font-size:16px;color:#536173;max-width:900px}nav{font-size:14px}nav button{min-height:44px;color:#465467}p,li,figcaption{overflow-wrap:anywhere}footer{color:#596779}@media(max-width:850px){.feature-grid{grid-template-columns:1fr}}@media(max-width:480px){nav a{font-size:13px}.hero h1{font-size:36px}.lead{font-size:17px}.release-note{font-size:14px}.plans article{padding:24px}.plans ul{font-size:15px}footer{font-size:13px}}

diff --git a/site/product-rollout-2026-10-17.md b/site/product-rollout-2026-10-17.md
@@ -1,0 +1,52 @@
+# 两款产品官网图文核对与部署记录 · 2026-10-17
+
+已按运营方最新要求直接部署新版产品首页，取代此前“等发布窗口再同步首页”的安排。只更新静态网站，插件安装包与支付服务未改变。
+
+## 正式地址及功能版本
+
+| 网站 | 本页介绍版本 | 核对时商店公开版本 |
+| --- | --- | --- |
+| https://tabtasks.tabplugins.top/ | TabTasks 0.6.0 | 0.5.1 |
+| https://tabvault.tabplugins.top/ | TabVault 0.5.0 | 0.4.1 |
+
+两款首页均在页首注明本页功能版本、商店审核与更新分发可能滞后，以及以实际安装版本为准。安装入口保留原扩展ID，并改用“前往Chrome商店”，没有声称商店已经提供新版。核对时刻和原条目版本见store-availability.json。
+
+## 修正的差异
+
+| 内容 | 本轮同步结果 |
+| --- | --- |
+| 免费额度 | TabTasks 30个活动任务／3个自定义列表，内置列表和已完成任务不计；TabVault 30个手动会话／3个项目 |
+| 已放开的基础权益 | 标签、备注、备份等按实际代码开放；纠正支持页中JSON备份需Pro、项目和分组全需Pro的旧说法 |
+| TabTasks新功能 | 免费1个模板、1个智能视图、单任务自带Key AI；Pro多模板／变量／跨列表批量启动、分组置顶、多任务AI与常用指令 |
+| TabVault新功能 | 免费差异与重复引用预览、选页／分组／固定状态恢复、跳过已打开网址；Pro缺页批量找回、命名多窗口启动方案、应用跨会话整理、高级整理和CSV |
+| 阅读与语言 | 明确三档字号免费，默认跟随浏览器、未支持或识别失败用英文，保留EN／中切换与记忆 |
+| 自动快照 | 默认关闭；免费最长24小时／50份，Pro最长30天／500份，均受合计4 MB限制，实际范围可能更短 |
+| AI与恢复边界 | 两种兼容API、自带Key、调用费另收；仅披露字段发送。恢复不承诺密码、登录态、表单或未提交状态 |
+| 购买说明 | 各款$6一次性买断、税费以结账页为准、旧Pro覆盖本次更新；插件内发起可核验自动激活，邮箱与旧码可恢复 |
+| 图片 | 两款中英文各5张共20张，与本轮运行版本的商店截图逐字节一致；重新生成1200×630分享图，移除旧JPEG截图和过时横幅的公开访问 |
+| 一致性 | 更新页脚版本、英文静态回退、中文动态文字、支持页、llms.txt、元信息和站点地图，不保留只改JS后静态HTML仍旧的矛盾 |
+
+页面只展示当前已实现功能，没有宣传后续计划中的重复任务、规则、复盘、智能集合或会话版本。所有截图为真实插件界面、示例数据，注明含Pro功能。官网不增加GitHub或源码入口。
+
+## 测试与线上核对
+
+- 本地24个、线上24个首页场景通过：两款×English／简体中文／法语浏览器×320／390／768／1440px。
+- 法语回退英文，手动中英文切换并刷新后记忆；无JavaScript时静态英文、额度与版本仍可读。
+- 每种语言5张图片加载正确、无横向溢出、按钮至少44px且文字可见；查看了桌面、手机及两张分享图。
+- 44个实际发布文件逐项核对；HTML比对排除Cloudflare自动注入的统计脚本及body闭合前的附加空白，其他内容按哈希核对。
+- 原GA4标签保留，Cloudflare边缘统计脚本一份；内部文档和旧宣传图返回404。总首页TabVault按钮的已有修复保持正常。
+- 两款支付状态正常，自动激活和邮箱恢复仍启用；支付Worker的etag和modified_on未变化。未创建订单、扣款、发验证码或修改D1／Stripe／Resend／DNS。
+- 原TabTasks 0.6.0和TabVault 0.5.0运行ZIP的SHA256与交付时一致，不需要重打插件包或撤回商店审核。
+
+## 本轮网站部署版本
+
+| Worker | Cloudflare版本 |
+| --- | --- |
+| tabtasks-site | 02343f41-f153-4d1c-8e86-bab3c1e2cac2 |
+| tabvault-site | 59dc8f0b-66b7-4acb-8330-6aed8f76d07a |
+
+## 后续与留档
+
+商店审核通过并发布后，核对实际可安装版本，届时可将页首的商店更新提示调整为正式发布状态。官网这次已经部署完成，无需再等一次发布窗口。
+
+本次保留部署前已知静态快照、前后部署记录、完整发布文件清单、本地和线上截图、浏览器结果、内容与额度核对、商店版本观察以及本报告。before目录来自上一轮已验证的正式部署快照；回退时以previous-deployments.json中的原Cloudflare部署为准，不把HTTP响应层的自动统计脚本写回静态HTML。

diff --git a/site/README.md b/site/README.md
@@ -6,4 +6,8 @@ The docs/.assetsignore allowlist publishes product pages and visual assets only.
 
 ## Privacy-only rollout · 2026-10-17
 
-The store update is under review. This rollout publishes the current PRIVACY.html using a staged copy of the existing live website, preserving its homepage, landing scripts, support page and visual assets. New product benefits and screenshots in the source tree remain scheduled for the store release window; do not publish the full current docs directory as part of a privacy-only change. Billing is unchanged. See rollout-2026-10-17.md for deployment and validation records.
+The initial rollout published PRIVACY.html using a staged copy of the existing live website and preserved its homepage and screenshots. See rollout-2026-10-17.md for that historical deployment. Billing was unchanged.
+
+## Full product-page rollout · 2026-10-17
+
+The owner subsequently requested immediate publication of the new product pages, superseding the earlier hold on homepage copy and screenshots. The homepage now describes 0.6.0 and uses its English/Chinese release screenshots, updated feature comparison, support text, reading options and social preview. The public store still showed 0.5.1 when checked; a visible bilingual notice distinguishes the described version from actual store availability. No extension or payment backend was deployed. Old screenshot JPEGs and the obsolete promotional banner are excluded from static publication. See product-rollout-2026-10-17.md for validation and deployment records.
